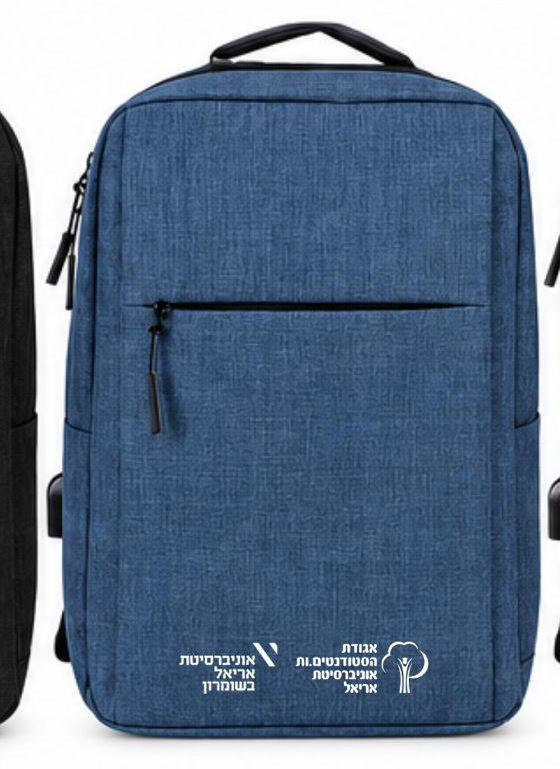
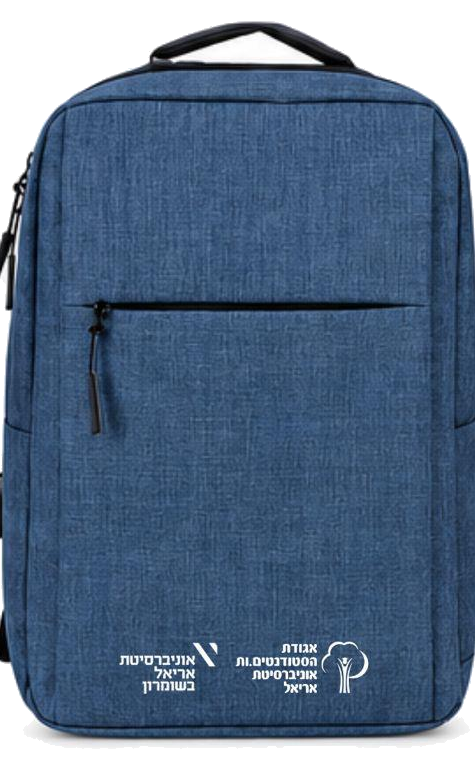
feat: remove gift image backgrounds, fix cropped product photos, rename premium backpack titles
- Flood-fill white/black backgrounds to transparent across all gift catalog images
- Convert remaining JPEG gift images to PNG to support transparency
- Crop out neighboring-product slivers bleeding into the lunch cooler (cream/black) and blue quality laptop backpack photos
- Rename premium backpack titles to "דגם A" / "דגם B"
- Remove the "מזל טוב" line from the eligibility banner

diff --git a/src/lib/gifts.ts b/src/lib/gifts.ts
@@ -110,19 +110,19 @@ export const gifts: Gift[] = [
         id: "quality-laptop-backpack", // OSK263
         title: "תיק גב איכותי למחשב אפור",
         description: "אפור",
-        image: "/gifts/gray-backpack.jpeg",
+        image: "/gifts/gray-backpack.png",
         stock: 0,
     },
     {
         id: "blue-premium-laptop-backpack",
-        title: "תיק גב מפואר למחשב",
+        title: "תיק גב מפואר למחשב דגם A",
         description: "כחול",
         image: "/gifts/blue-premium-laptop-backpack.png",
         stock: 40,
     },
     {
         id: "black-premium-laptop-backpack",
-        title: "תיק גב מפואר למחשב",
+        title: "תיק גב מפואר למחשב דגם B",
         description: "שחור",
         image: "/gifts/black-premium-laptop-backpack.png",
         stock: 40,
@@ -144,14 +144,14 @@ export const gifts: Gift[] = [
     {
         id: "laptop-bag-osp4583f", // Osp4583F
         title: "תיק מחשב נייד",
-        image: "/gifts/laptop-bag-osp4583f.jpg",
+        image: "/gifts/laptop-bag-osp4583f.png",
         stock: 850,
     },
     {
         id: "gray-polo-sports-bag",
         title: "תיק ספורט פולו",
         description: "אפור",
-        image: "/gifts/gray-sportsbag.jpeg",
+        image: "/gifts/gray-sportsbag.png",
         stock: 525,
     },
     {
@@ -165,7 +165,7 @@ export const gifts: Gift[] = [
         id: "black-polo-sports-bag",
         title: "תיק ספורט פולו",
         description: "שחור",
-        image: "/gifts/black-polo-sports-bag.jpeg",
+        image: "/gifts/black-polo-sports-bag.png",
         stock: 450,
     },
 ];

diff --git a/src/components/GiftGrid.tsx b/src/components/GiftGrid.tsx
@@ -153,8 +153,7 @@ export default function GiftGrid() {
     return (
         <div className="w-full max-w-5xl mx-auto text-center" dir="rtl">
             <div className="alert alert-success text-emerald-800 mb-8">
-                <span className="font-semibold text-emerald-700">מזל טוב!</span>{" "}
-                אתה זכאי לבחור מתנה. לאחר השליחה לא ניתן לשנות בחירה.
+                לאחר השליחה לא ניתן לשנות בחירה.
             </div>
             {submitError && (
                 <div
